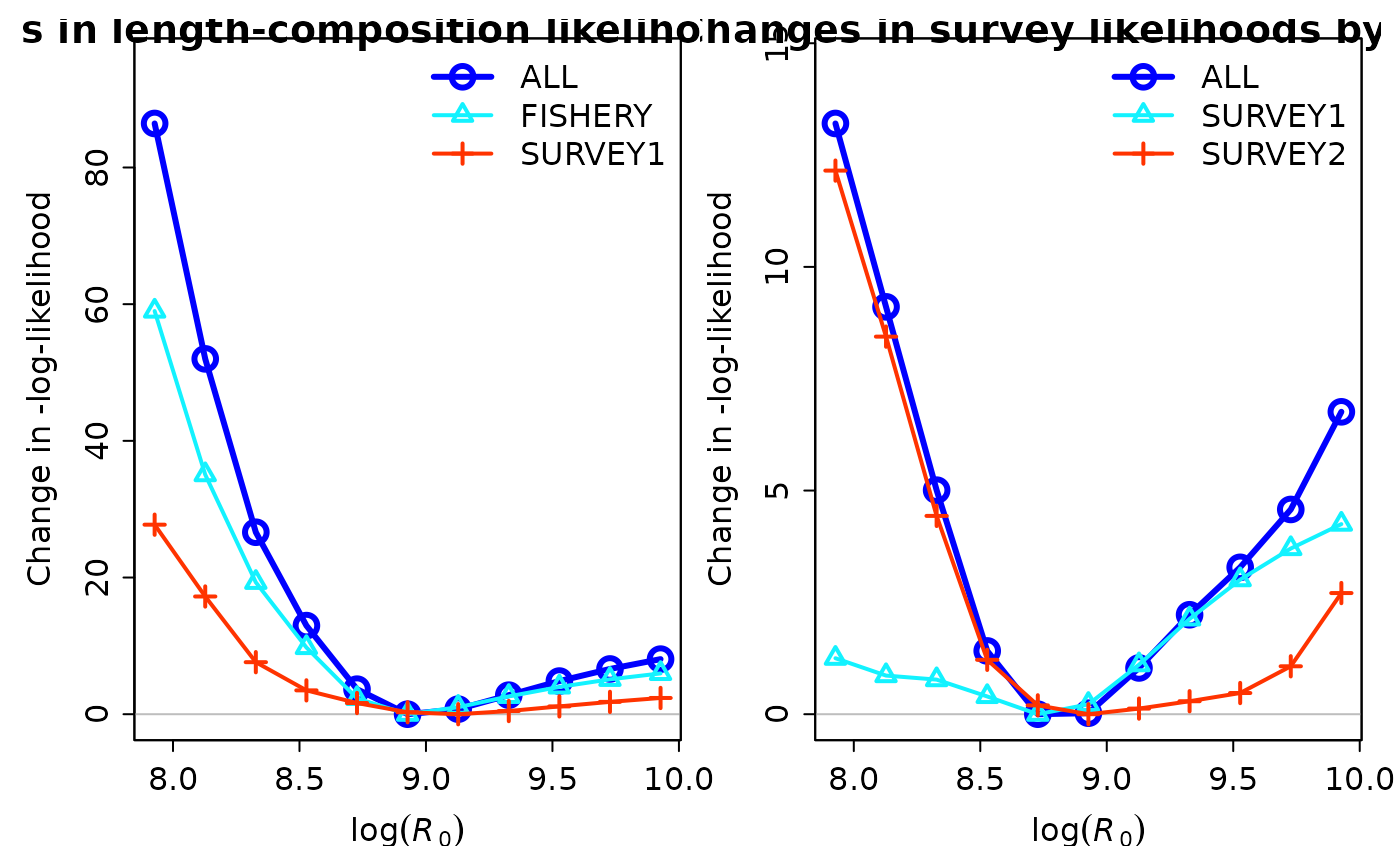
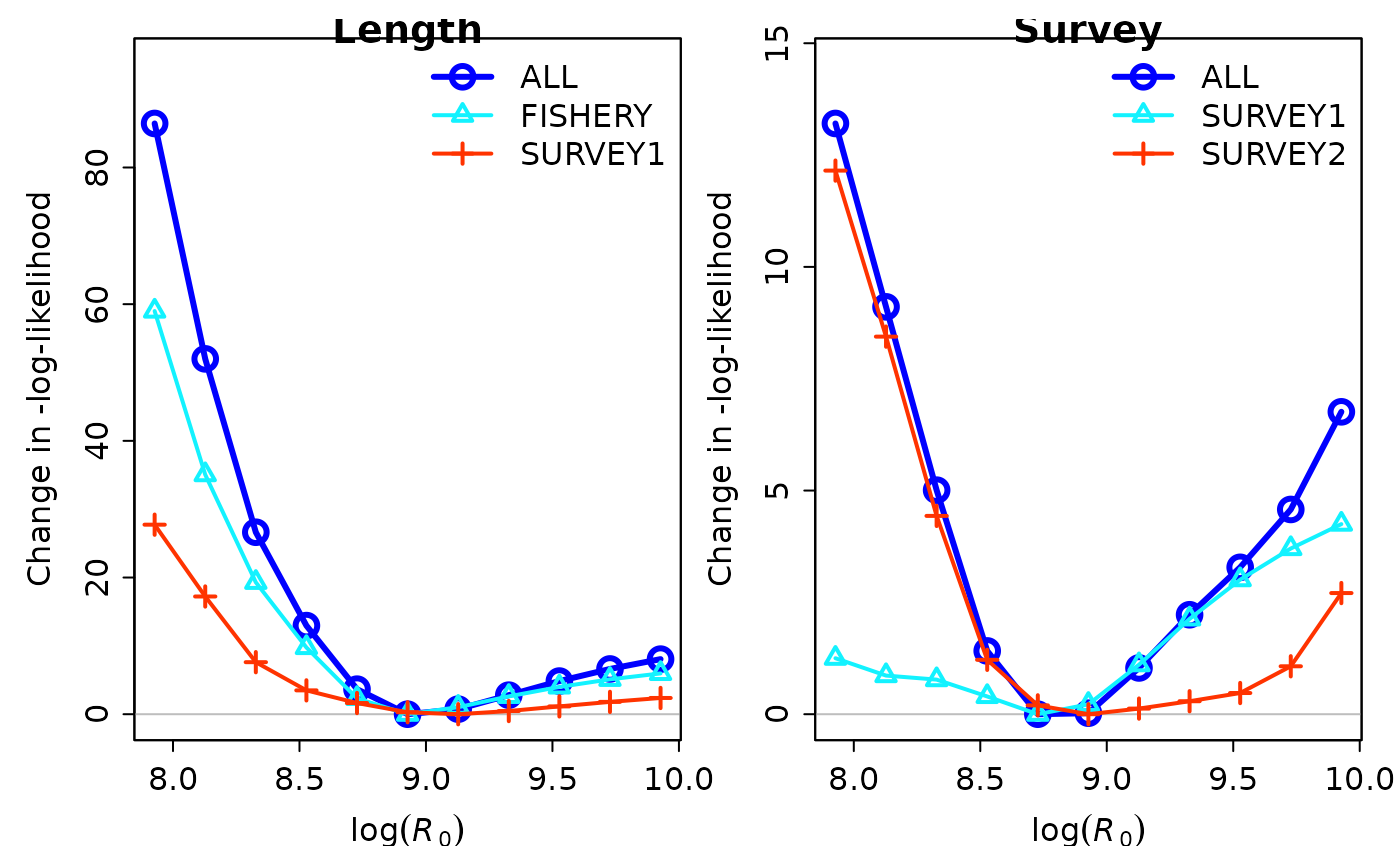
Built site for ss3diags: 2.1.1@f054745

Changed region(s): [[0.0, 0.0, 1.0, 0.0624]]

diff --git a/index.html b/index.html
@@ -98,19 +98,16 @@
 </h1></div>
 <!-- badges: start -->
 
-<div class="section level3">
-<h3 id="build-status">Build Status<a class="anchor" aria-label="anchor" href="#build-status"></a>
-</h3>
-<p>The R package <code>ss3diags</code> enables users to apply advanced diagnostics to evaluate a Stock Synthesis model. Diagnostics include residual analyses, hindcasting and cross-validation techniques, and retrospective analyses. Functions also allow users to reproduce the key model diagnostics plots that presented in the paper ‘A Cookbook for Using Model Diagnostics in Integrated Stock Assessments’.</p>
-<p>The ss3diags Github respository provides step-by-step R recipes on how to:</p>
+<p>The R package <code>ss3diags</code> enables users to apply advanced diagnostics to evaluate a Stock Synthesis model. Diagnostics include residual analyses, hindcast cross-validation techniques, and retrospective analyses. Functions also allow users to reproduce the key model diagnostics plots that presented in the paper ‘A Cookbook for Using Model Diagnostics in Integrated Stock Assessments’.</p>
+<p>The <code>ss3diags</code> Github respository provides step-by-step R recipes on how to:</p>
 <ul>
-<li><a href="https://pifscstockassessments.github.io/ss3diags/articles/likelihood.html">Do log-likelihood profiling for R0</a></li>
+<li><a href="https://pifscstockassessments.github.io/ss3diags/articles/likelihood.html">Do log-likelood profiling for R0</a></li>
 <li><a href="https://github.com/PIFSCstockassessments/ss3diags/blob/master/Cookbook/Setup_ASPM_example.R" class="external-link">Run the ASPM diagnostic</a></li>
 <li><a href="https://pifscstockassessments.github.io/ss3diags/articles/Retrospective-Analysis.html">Conduct restrospective analysis</a></li>
 <li><a href="https://github.com/PIFSCstockassessments/ss3diags/blob/master/Cookbook/Jitter_test_example.R" class="external-link">Run jitter analysis</a></li>
+<li><a href="https://pifscstockassessments.github.io/ss3diags/articles/hcxval.html">Use hindcast cross-validation</a></li>
 </ul>
-<p>with Stock Synthesis by making use of a comprehensive collection of R functions available in the R package <a href="https://github.com/r4ss/r4ss" class="external-link"><code>r4ss</code></a></p>
-</div>
+<p>with Stock Synthesis by making use of a comprehensive collection of R functions available in the R packages <a href="https://github.com/r4ss/r4ss" class="external-link"><code>r4ss</code></a> and <code>ss3diags</code>.</p>
 <div class="section level2">
 <h2 id="installation">Installation<a class="anchor" aria-label="anchor" href="#installation"></a>
 </h2>
@@ -121,17 +118,7 @@
 <p>Once the package is installed it can be loaded by:</p>
 <div class="sourceCode" id="cb2"><pre class="downlit sourceCode r">
 <code class="sourceCode R"><span><span class="kw"><a href="https://rdrr.io/r/base/library.html" class="external-link">library</a></span><span class="op">(</span><span class="va"><a href="https://github.com/PIFSCstockassessments/ss3diags" class="external-link">ss3diags</a></span><span class="op">)</span></span></code></pre></div>
-</div>
-<div class="section level2">
-<h2 id="applying-ss3diags-for-model-diagnostics">Applying ss3diags for Model Diagnostics<a class="anchor" aria-label="anchor" href="#applying-ss3diags-for-model-diagnostics"></a>
-</h2>
-<div class="section level4">
-<h4 id="example-model">Example Model<a class="anchor" aria-label="anchor" href="#example-model"></a>
-</h4>
-<p>For demonstration purposes, a simple, cod-like SS model was simulated using <a href="https://github.com/ss3sim/ss3sim" class="external-link">ss3sim</a>. The model includes 2 fleets, one fishery and one survey. Catch data is available from year 26 to year 100 (final year of model). An index of abundance is available from the survey fleet for years 62 - 100. No discard data was simulated. Simulated composition data includes length (fleets 1 and 2), age (fleets 1 and 2), and conditional age-at-length (fleet 1). The SS output for this model can be loaded into the environment using</p>
-<div class="sourceCode" id="cb3"><pre class="downlit sourceCode r">
-<code class="sourceCode R"><span><span class="fu"><a href="https://rdrr.io/r/utils/data.html" class="external-link">data</a></span><span class="op">(</span><span class="st">"simple"</span><span class="op">)</span></span></code></pre></div>
-</div>
+<p>For examples of how to run common diagnostic tests for SS models and visualize the results of those diagnostic tests using the <code>r4ss</code> and <code>ssdiags</code> packages, please refer to the articles on the package <a href="https://pifscstockassessments.github.io/ss3diags/">website</a>.</p>
 </div>
 <div class="section level2">
 <h2 id="contributing-to-ss3diags">Contributing to ss3diags<a class="anchor" aria-label="anchor" href="#contributing-to-ss3diags"></a>
@@ -142,23 +129,24 @@
 <h2 id="reference">Reference<a class="anchor" aria-label="anchor" href="#reference"></a>
 </h2>
 <p>To cite ss3diags for a publication you can use</p>
-<div class="sourceCode" id="cb4"><pre class="downlit sourceCode r">
+<div class="sourceCode" id="cb3"><pre class="downlit sourceCode r">
 <code class="sourceCode R"><span><span class="fu"><a href="https://rdrr.io/r/utils/citation.html" class="external-link">citation</a></span><span class="op">(</span><span class="st">"ss3diags"</span><span class="op">)</span></span>
+<span><span class="co">#&gt; </span></span>
 <span><span class="co">#&gt; To cite package 'ss3diags' in publications use:</span></span>
 <span><span class="co">#&gt; </span></span>
-<span><span class="co">#&gt;   Winker H, Carvalho F, Cardinale M, Kell L, Oshima M, Fletcher E</span></span>
-<span><span class="co">#&gt;   (2022). _ss3diags: Stock Synthesis Model Diagnostics for Intergated</span></span>
-<span><span class="co">#&gt;   Stock Assessments_. R package version 2.1.0,</span></span>
-<span><span class="co">#&gt;   &lt;https://github.com/PIFSCstockassessments/ss3diags&gt;.</span></span>
+<span><span class="co">#&gt;   Henning Winker, Felipe Carvalho, Massimiliano Cardinale, Laurence</span></span>
+<span><span class="co">#&gt;   Kell, Megumi Oshima and Eric Fletcher (2023). ss3diags: Stock</span></span>
+<span><span class="co">#&gt;   Synthesis Model Diagnostics for Intergated Stock Assessments. R</span></span>
+<span><span class="co">#&gt;   package version 2.1.1.</span></span>
+<span><span class="co">#&gt;   https://github.com/PIFSCstockassessments/ss3diags</span></span>
 <span><span class="co">#&gt; </span></span>
 <span><span class="co">#&gt; A BibTeX entry for LaTeX users is</span></span>
 <span><span class="co">#&gt; </span></span>
 <span><span class="co">#&gt;   @Manual{,</span></span>
-<span><span class="co">#&gt;     title = {ss3diags: Stock Synthesis Model Diagnostics for Intergated Stock</span></span>
-<span><span class="co">#&gt; Assessments},</span></span>
+<span><span class="co">#&gt;     title = {ss3diags: Stock Synthesis Model Diagnostics for Intergated Stock Assessments},</span></span>
 <span><span class="co">#&gt;     author = {Henning Winker and Felipe Carvalho and Massimiliano Cardinale and Laurence Kell and Megumi Oshima and Eric Fletcher},</span></span>
-<span><span class="co">#&gt;     year = {2022},</span></span>
-<span><span class="co">#&gt;     note = {R package version 2.1.0},</span></span>
+<span><span class="co">#&gt;     year = {2023},</span></span>
+<span><span class="co">#&gt;     note = {R package version 2.1.1},</span></span>
 <span><span class="co">#&gt;     url = {https://github.com/PIFSCstockassessments/ss3diags},</span></span>
 <span><span class="co">#&gt;   }</span></span></code></pre></div>
 </div>
@@ -222,6 +210,7 @@ In that case, don't forget to commit and push the resulting figure files, so the
 <h2 data-toc-skip>Dev status</h2>
 <ul class="list-unstyled">
 <li><a href="https://github.com/PIFSCstockassessments/ss3diags/actions" class="external-link"><img src="https://github.com/r4ss/r4ss/workflows/R-CMD-check/badge.svg" alt="R-CMD-check"></a></li>
+<li><a href="https://github.com/PIFSCstockassessments/ss3diags/actions" class="external-link"><img src="https://github.com/PIFSCstockassessments/ss3diags/workflows/R-CMD-check/badge.svg" alt="R-CMD-check"></a></li>
 </ul>
 </div>
 

diff --git a/articles/likelihood.html b/articles/likelihood.html
@@ -339,6 +339,10 @@ needs to match what you put in the starter file for “cltfile”.</p>
 <span><span class="co">#&gt; 9            0      0.00166199         0         0</span></span>
 <span><span class="co">#&gt; 10           0      0.00171844         0         0</span></span>
 <span><span class="co">#&gt; 11           0      0.00176282         0         0</span></span></code></pre></div>
+</div>
+<div class="section level2">
+<h2 id="visualizing-output">Visualizing Output<a class="anchor" aria-label="anchor" href="#visualizing-output"></a>
+</h2>
 <p>Once the profile is finished running, we can visualize the results to
 determine if there is conflict between the data sources. If all data
 sources reach a minimum at the same R0 value, this indicates good
@@ -401,7 +405,9 @@ by fleet. This will allow us to see if there are conflicts and what
 sources are the main drivers.</p>
 <div class="sourceCode" id="cb9"><pre class="downlit sourceCode r">
 <code class="sourceCode R"><span><span class="fu"><a href="https://r4ss.github.io/r4ss/reference/sspar.html" class="external-link">sspar</a></span><span class="op">(</span>mfrow <span class="op">=</span> <span class="fu"><a href="https://rdrr.io/r/base/c.html" class="external-link">c</a></span><span class="op">(</span><span class="fl">1</span>,<span class="fl">2</span><span class="op">)</span><span class="op">)</span></span>
-<span><span class="fu"><a href="https://r4ss.github.io/r4ss/reference/PinerPlot.html" class="external-link">PinerPlot</a></span><span class="op">(</span><span class="va">profile_mods_sum</span>, component <span class="op">=</span> <span class="st">"Length_like"</span><span class="op">)</span></span>
+<span><span class="fu"><a href="https://r4ss.github.io/r4ss/reference/PinerPlot.html" class="external-link">PinerPlot</a></span><span class="op">(</span><span class="va">profile_mods_sum</span>, </span>
+<span>          component <span class="op">=</span> <span class="st">"Length_like"</span>,</span>
+<span>          main <span class="op">=</span> <span class="st">"Length"</span><span class="op">)</span></span>
 <span><span class="co">#&gt; Parameter matching profile.string = 'R0': 'SR_LN(R0)</span></span>
 <span><span class="co">#&gt; Parameter values (after subsetting based on input 'models'): 7.9274, 8.1274, 8.3274, 8.5274, 8.7274, 8.9274, 9.1274, 9.3274, 9.5274, 9.7274, 9.9274,</span></span>
 <span><span class="co">#&gt; Fleet-specific likelihoods showing max change as fraction of total change.</span></span>
@@ -411,8 +417,8 @@ sources are the main drivers.</p>
 <span><span class="co">#&gt; SURVEY1      0.3208    TRUE</span></span>
 <span><span class="co">#&gt; SURVEY2      0.0000   FALSE</span></span>
 <span><span class="fu"><a href="https://r4ss.github.io/r4ss/reference/PinerPlot.html" class="external-link">PinerPlot</a></span><span class="op">(</span><span class="va">profile_mods_sum</span>, </span>
-<span>          component <span class="op">=</span> <span class="st">"Surv_like"</span>, </span>
-<span>          main <span class="op">=</span> <span class="st">"Changes in survey likelihoods by fleet"</span><span class="op">)</span></span>
+<span>          component <span class="op">=</span> <span class="st">"Surv_like"</span>,</span>
+<span>          main <span class="op">=</span> <span class="st">"Survey"</span><span class="op">)</span></span>
 <span><span class="co">#&gt; Parameter matching profile.string = 'R0': 'SR_LN(R0)</span></span>
 <span><span class="co">#&gt; Parameter values (after subsetting based on input 'models'): 7.9274, 8.1274, 8.3274, 8.5274, 8.7274, 8.9274, 9.1274, 9.3274, 9.5274, 9.7274, 9.9274,</span></span>
 <span><span class="co">#&gt; Fleet-specific likelihoods showing max change as fraction of total change.</span></span>
